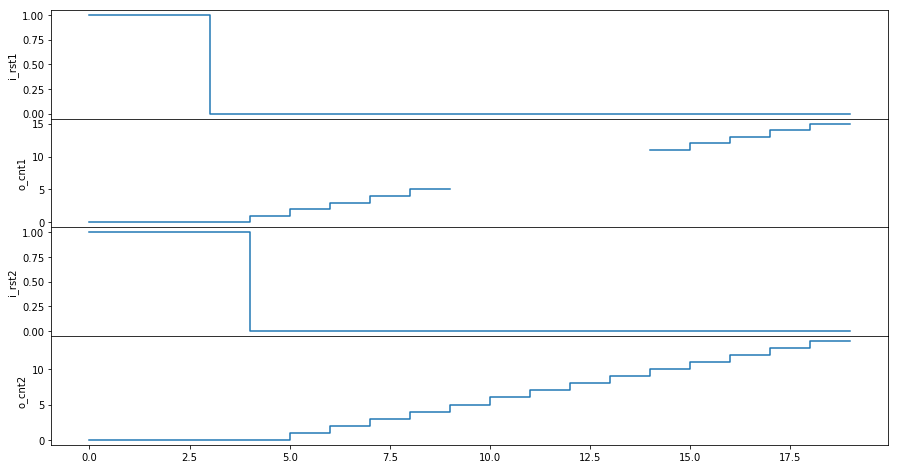
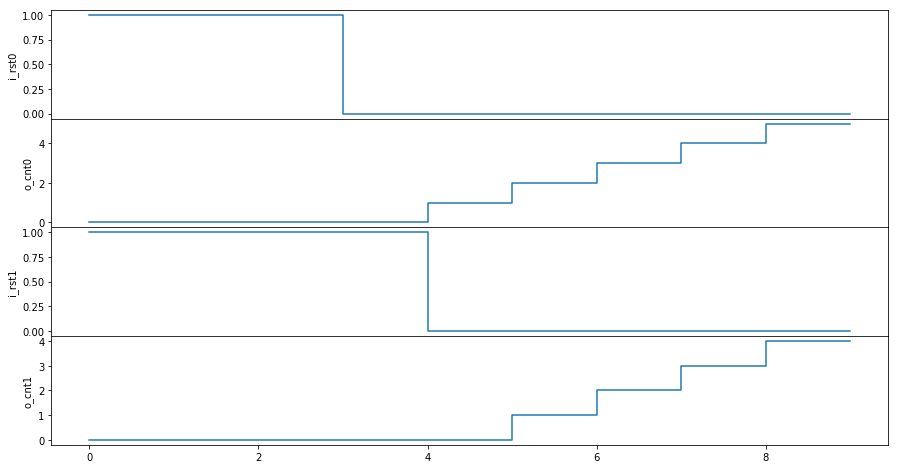
Added set_trace

diff --git a/pyclk/module.py b/pyclk/module.py
@@ -41,6 +41,7 @@ class Module:
         self._modules = []
         self._generators = []
         self._can_run = -1 # 0: cannot run, -1: can run forever, >0: can run for nb of clk
+        self._trace = None
     def __new__(cls, *args, **kwargs):
         self = super().__new__(cls, *args, **kwargs)
         self._init()
@@ -61,6 +62,8 @@ class Module:
         self._can_run = clkNb
         while self._can_run != 0:
             yield
+    def set_trace(self, trace):
+        self._trace = trace
     def run(self, clkNb=1, trace=None):
         if self._first_run:
             self._bind()
@@ -108,6 +111,8 @@ class Module:
                     self._first_run = False
                     done = False
             # trace signals:
+            if self._trace is not None:
+                trace = self._trace
             if trace is not None:
                 for i, sig in enumerate(trace._signals):
                     if trace._traces[i]['enable']:

diff --git a/README.md b/README.md
@@ -21,7 +21,7 @@ class counter(Module):
             self.r_cnt = self.r_cnt.q + 1
         self.o_cnt = self.r_cnt.q
 
-class toplevel(Module):
+class top(Module):
     def __init__(self):
         # declare signals, registers, I/Os
         # instanciate sub-modules and make connections
@@ -42,44 +42,32 @@ class toplevel(Module):
 
 
 ```python
-u_toplevel = toplevel()
+u_top = top()
 
 trace = Trace()
 for i in range(2):
-    trace.add(u_toplevel.i_rst[i])
-    trace.add(u_toplevel.o_cnt[i])
+    trace.add(u_top.i_rst[i])
+    trace.add(u_top.o_cnt[i])
+u_top.set_trace(trace)
 
-u_toplevel.i_rst[0] = 1
-u_toplevel.i_rst[1] = 1
+u_top.i_rst[0] = 1
+u_top.i_rst[1] = 1
 
-u_toplevel.run(3, trace=trace)
+u_top.run(3)
 
-u_toplevel.i_rst[0] = 0
+u_top.i_rst[0] = 0
 
-u_toplevel.run(trace=trace)
+u_top.run()
 
-u_toplevel.i_rst[1] = 0
+u_top.i_rst[1] = 0
 
-u_toplevel.run(5, trace=trace)
-
-trace.remove(u_toplevel.o_cnt[0])
-
-u_toplevel.run(5, trace=trace)
-
-trace.add(u_toplevel.o_cnt[0])
-
-u_toplevel.run(5, trace=trace)
+u_top.run(5)
 ```
 
     Time is 2
     Time is 4
     Time is 6
     Time is 8
-    Time is 10
-    Time is 12
-    Time is 14
-    Time is 16
-    Time is 18
 
 
 
